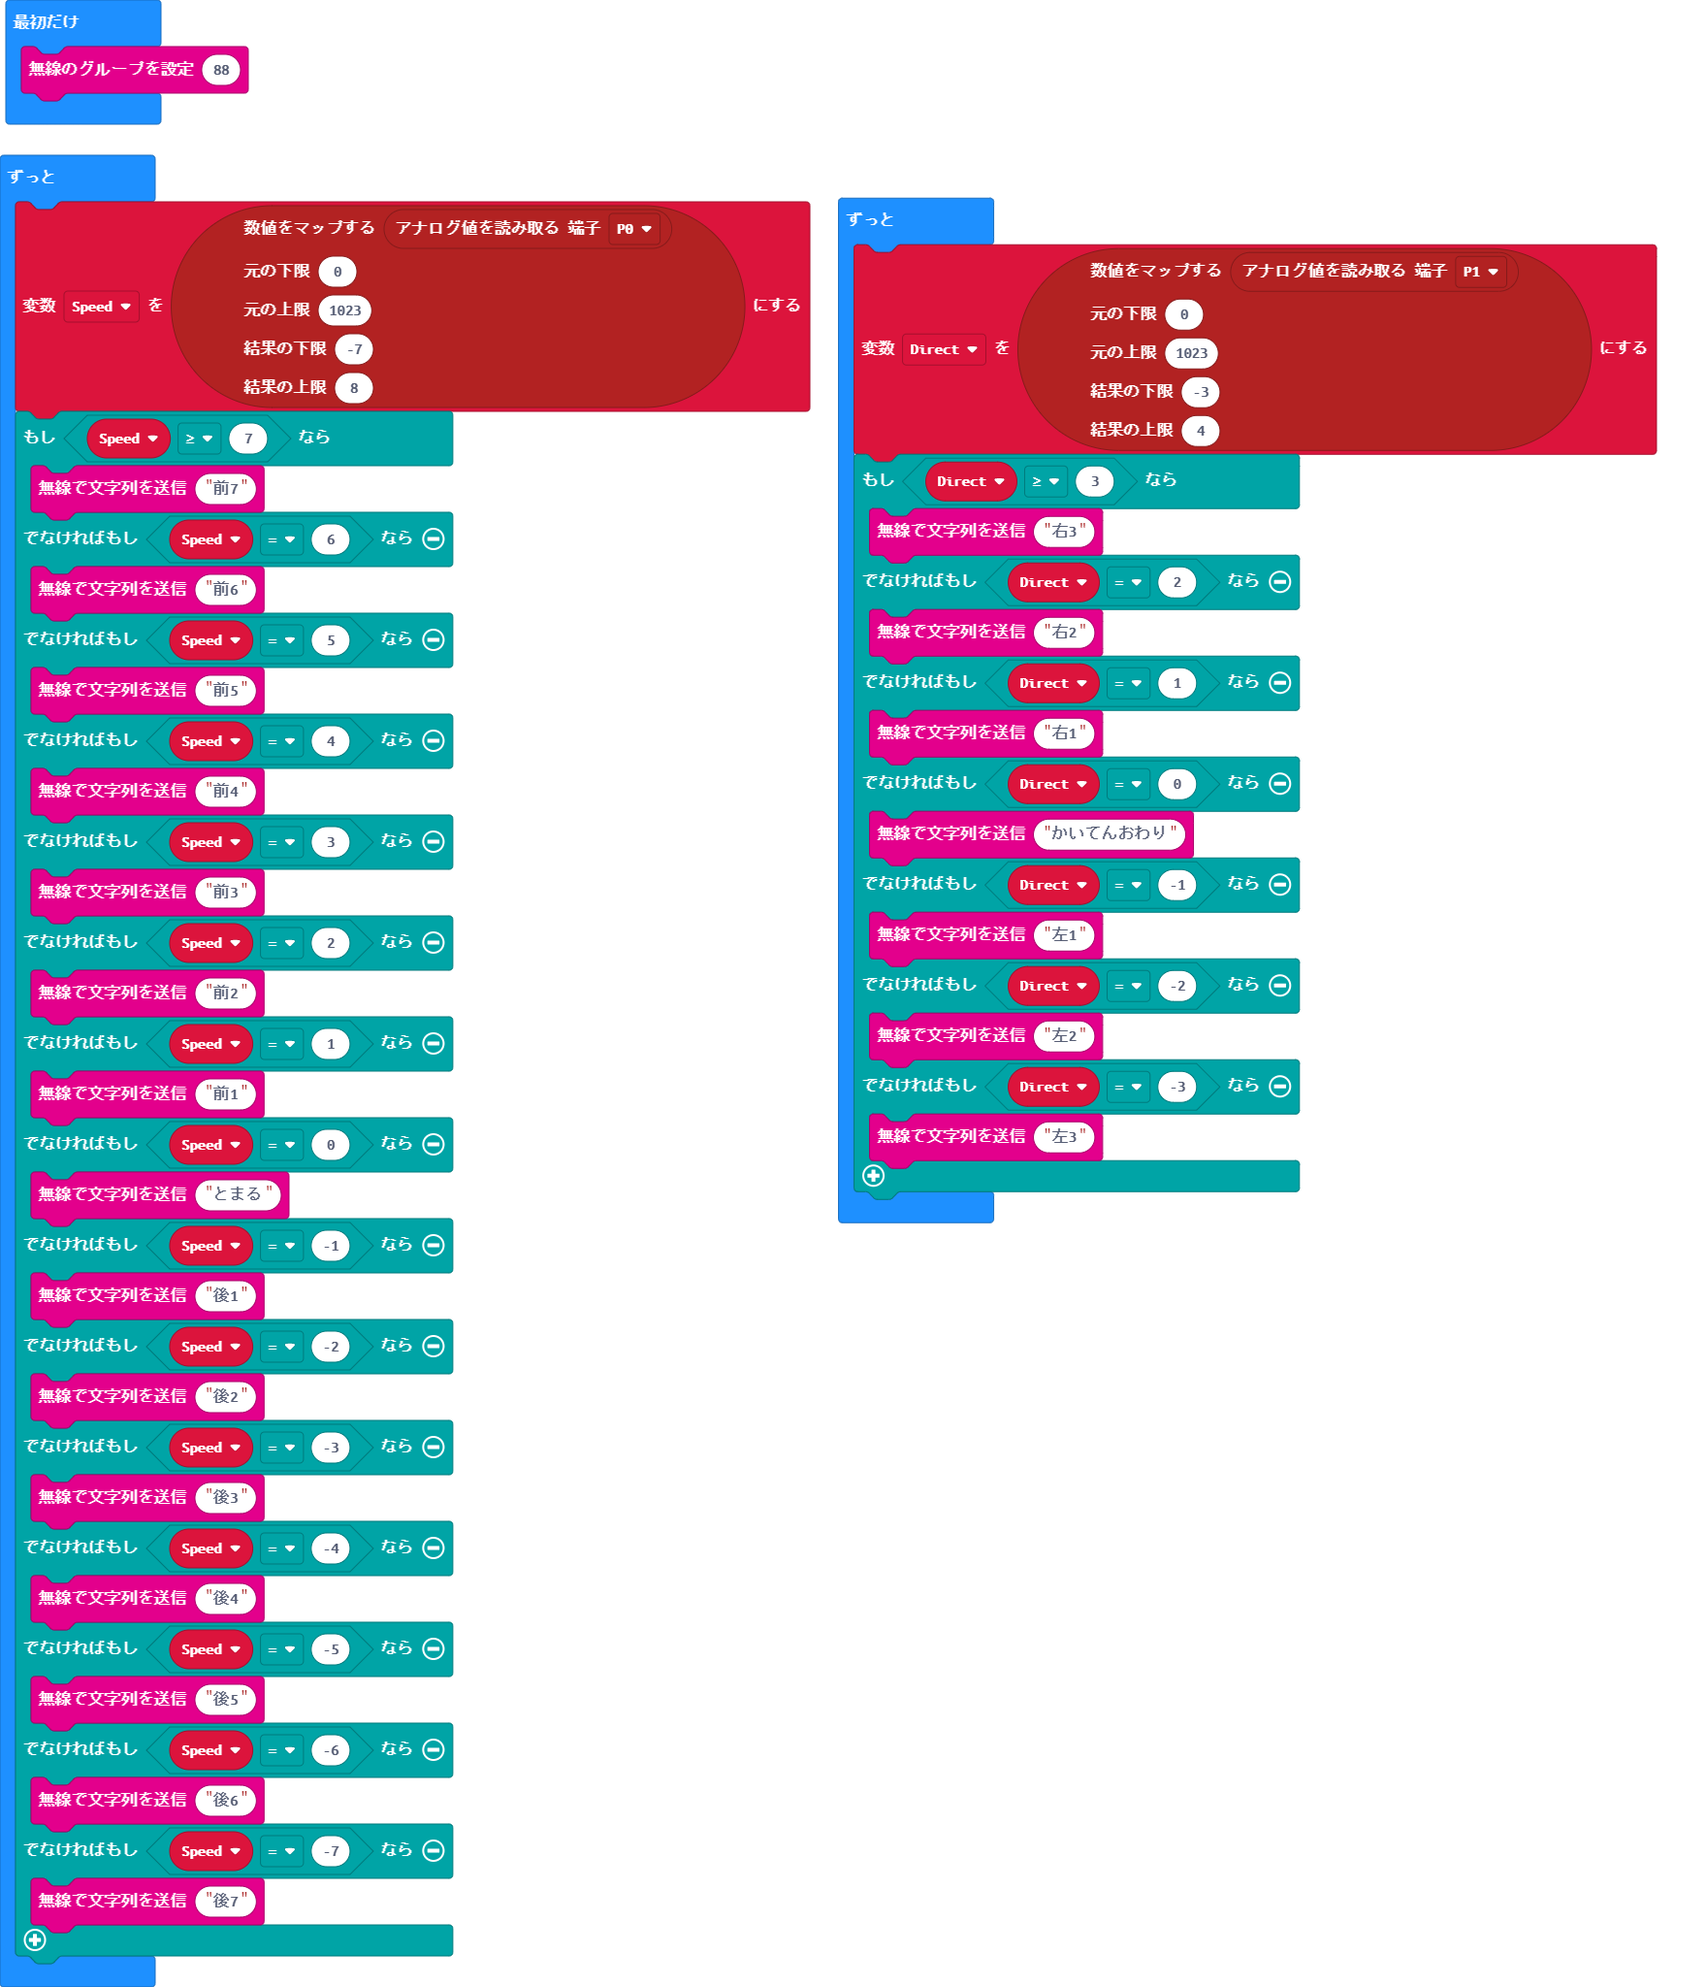
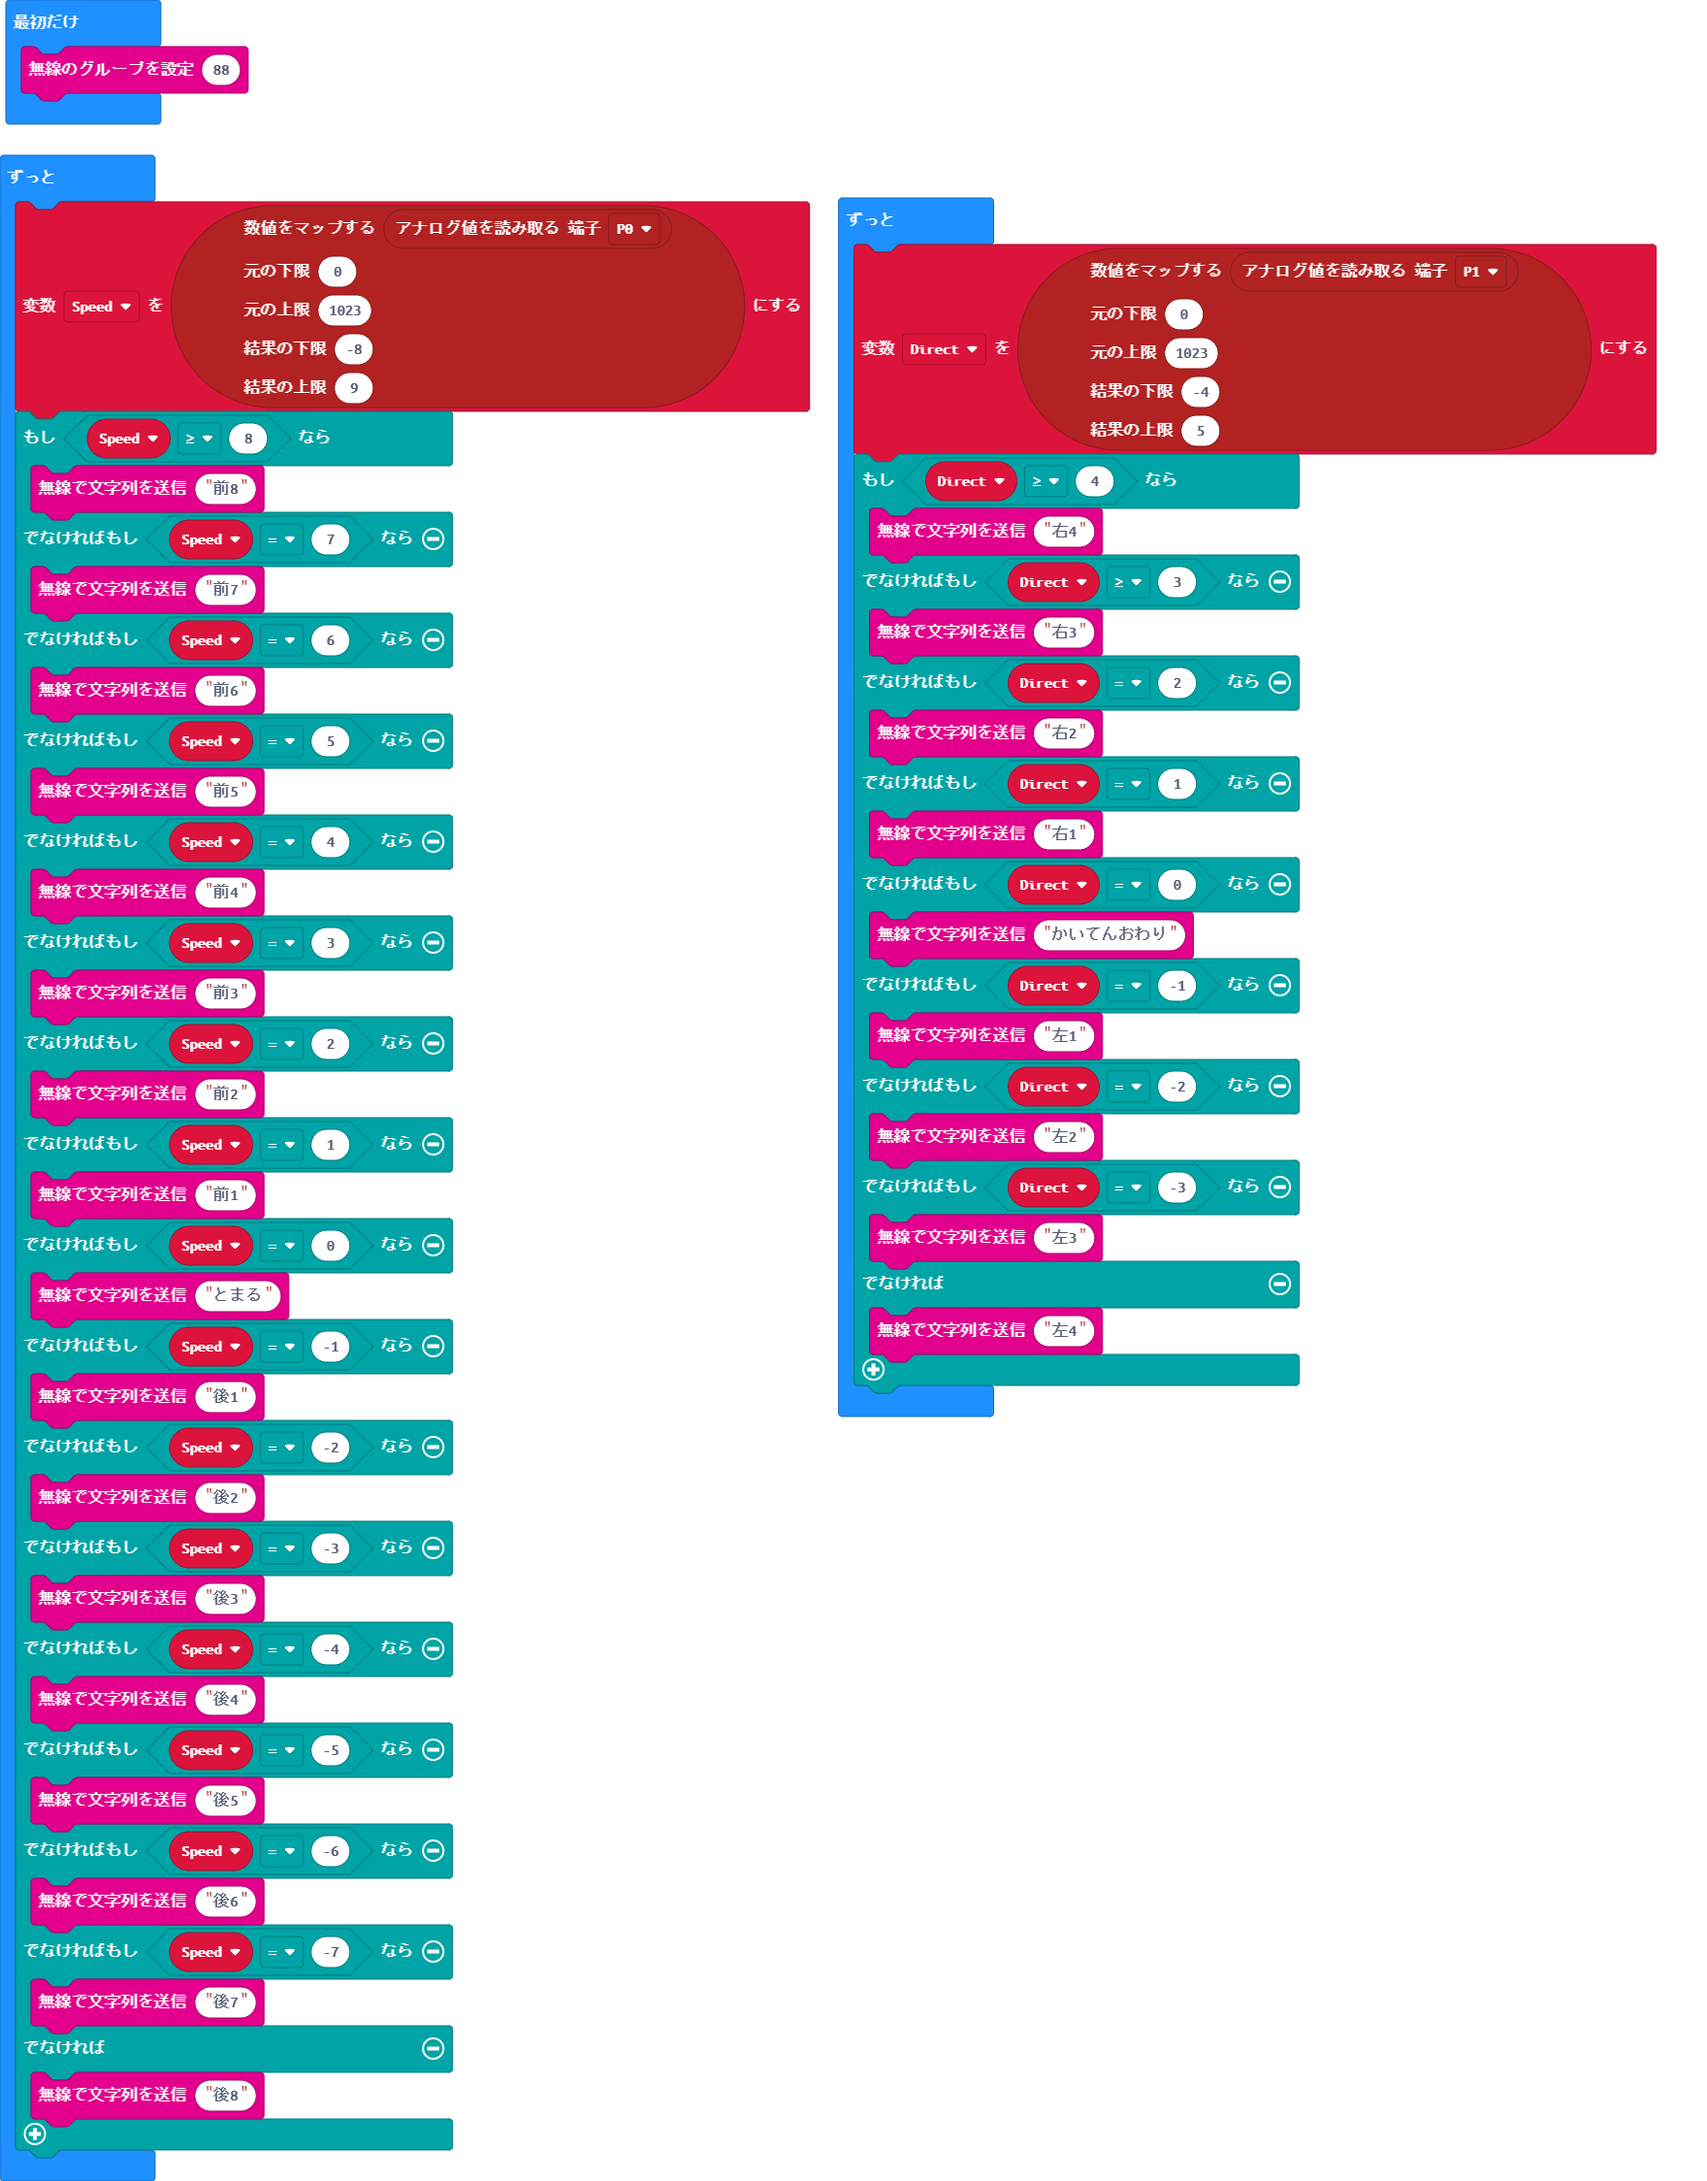
Update main.blocks, main.ts

Changed region(s): [[0.0, 0.0, 0.9688, 1.0]]

diff --git a/main.ts b/main.ts
@@ -6,10 +6,12 @@ basic.forever(function () {
     pins.analogReadPin(AnalogPin.P0),
     0,
     1023,
-    -7,
-    8
+    -8,
+    9
     )
-    if (Speed >= 7) {
+    if (Speed >= 8) {
+        radio.sendString("前8")
+    } else if (Speed == 7) {
         radio.sendString("前7")
     } else if (Speed == 6) {
         radio.sendString("前6")
@@ -39,6 +41,8 @@ basic.forever(function () {
         radio.sendString("後6")
     } else if (Speed == -7) {
         radio.sendString("後7")
+    } else {
+        radio.sendString("後8")
     }
 })
 basic.forever(function () {
@@ -46,10 +50,12 @@ basic.forever(function () {
     pins.analogReadPin(AnalogPin.P1),
     0,
     1023,
-    -3,
-    4
+    -4,
+    5
     )
-    if (Direct >= 3) {
+    if (Direct >= 4) {
+        radio.sendString("右4")
+    } else if (Direct >= 3) {
         radio.sendString("右3")
     } else if (Direct == 2) {
         radio.sendString("右2")
@@ -63,5 +69,7 @@ basic.forever(function () {
         radio.sendString("左2")
     } else if (Direct == -3) {
         radio.sendString("左3")
+    } else {
+        radio.sendString("左4")
     }
 })
